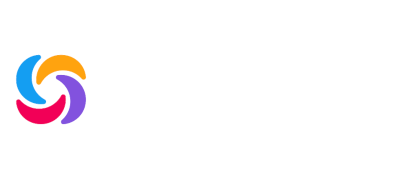
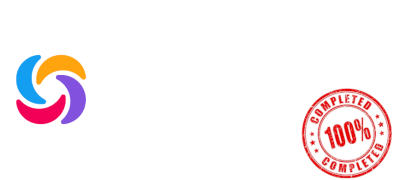
sololearn completely done

Changed region(s): [[0.75, 0.4722, 0.99, 1.0]]

diff --git a/training/index.html b/training/index.html
@@ -487,8 +487,8 @@
           >
         </p>
         <div class="mx-auto text-center">
-          <p>8,583 XP</p>
-          <p>Level 12</p>
+          <p>20,062 XP</p>
+          <p>Level 16</p>
         </div>
         <p>
           SoloLearn offers a comprehensive platform for learning coding. The
@@ -515,10 +515,10 @@
           <!-- Card --->
           <div class="col-md-4 my-3 card bg-dark text-white mx-auto">
             <div class="card-body">
+              <div class="text-center">
+                <strong>Courses Completed:</strong>
+              </div>
               <div class="card-text">
-                <div class="text-center">
-                  <strong>Courses Completed:</strong>
-                </div>
                 <ul>
                   <li>Tech for Everyone</li>
                   <li>Introduction to HTML</li>
@@ -530,6 +530,16 @@
                   <li>Introduction to Java</li>
                   <li>Java Intermediate</li>
                   <li>Introduction to C</li>
+                </ul>
+              </div>
+            </div>
+          </div>
+          <!-- end of card -->
+          <!-- Card --->
+          <div class="col-md-4 my-3 card bg-dark text-white mx-auto">
+            <div class="card-body">
+              <div class="card-text">
+                <ul>
                   <li>Introduction to C++</li>
                   <li>Introduction to C#</li>
                   <li>Introduction to SQL</li>
@@ -544,21 +554,7 @@
                   <li>C++ Intermediate</li>
                   <li>Coding Foundations</li>
                   <li>Coding for Data</li>
-                </ul>
-              </div>
-            </div>
-          </div>
-          <!-- end of card -->
-          <!-- Card  -->
-          <div class="col-md-4 my-3 card bg-dark text-white mx-auto">
-            <div class="card-body">
-              <div class="card-text">
-                <div class="text-center">
-                  <strong>Future Planned Learning:</strong>
-                </div>
-                <ul>
                   <li>C# Intermediate</li>
-                  <li>Python Developer</li>
                 </ul>
               </div>
             </div>
